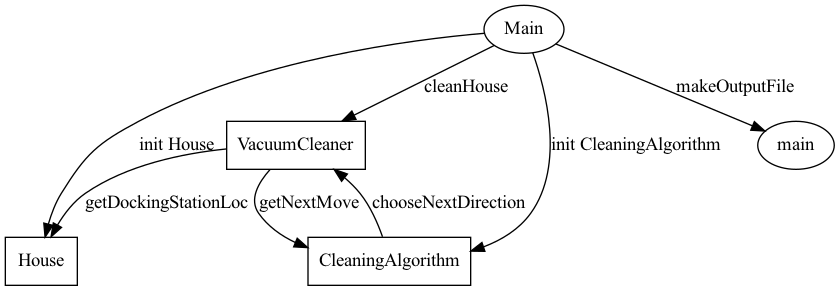
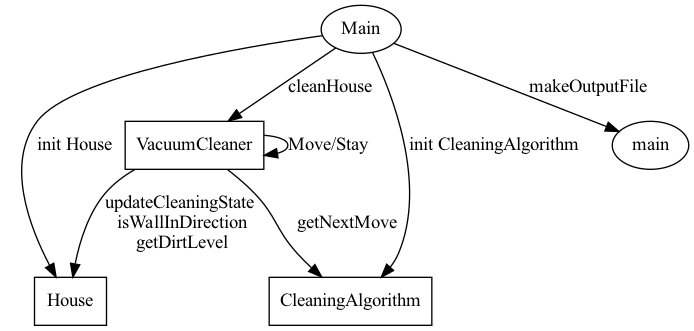
unl

diff --git a/EX1/unl.py b/EX1/unl.py
@@ -14,9 +14,9 @@ graph.add_edge("Main", "House", label="init House")
 graph.add_edge("Main", "VacuumCleaner", label="init VacuumCleaner")
 graph.add_edge("Main", "CleaningAlgorithm", label="init CleaningAlgorithm")
 graph.add_edge("Main", "VacuumCleaner", label="cleanHouse")
-graph.add_edge("VacuumCleaner", "House", label="getDockingStationLoc")
+graph.add_edge("VacuumCleaner", "House", label="updateCleaningState\n isWallInDirection\n getDirtLevel\n")
+graph.add_edge("VacuumCleaner", "VacuumCleaner", label="Move/Stay")
 graph.add_edge("VacuumCleaner", "CleaningAlgorithm", label="getNextMove")
-graph.add_edge("CleaningAlgorithm", "VacuumCleaner", label="chooseNextDirection")
 graph.add_edge("Main", "main", label="makeOutputFile")
 
 # Draw the graph
